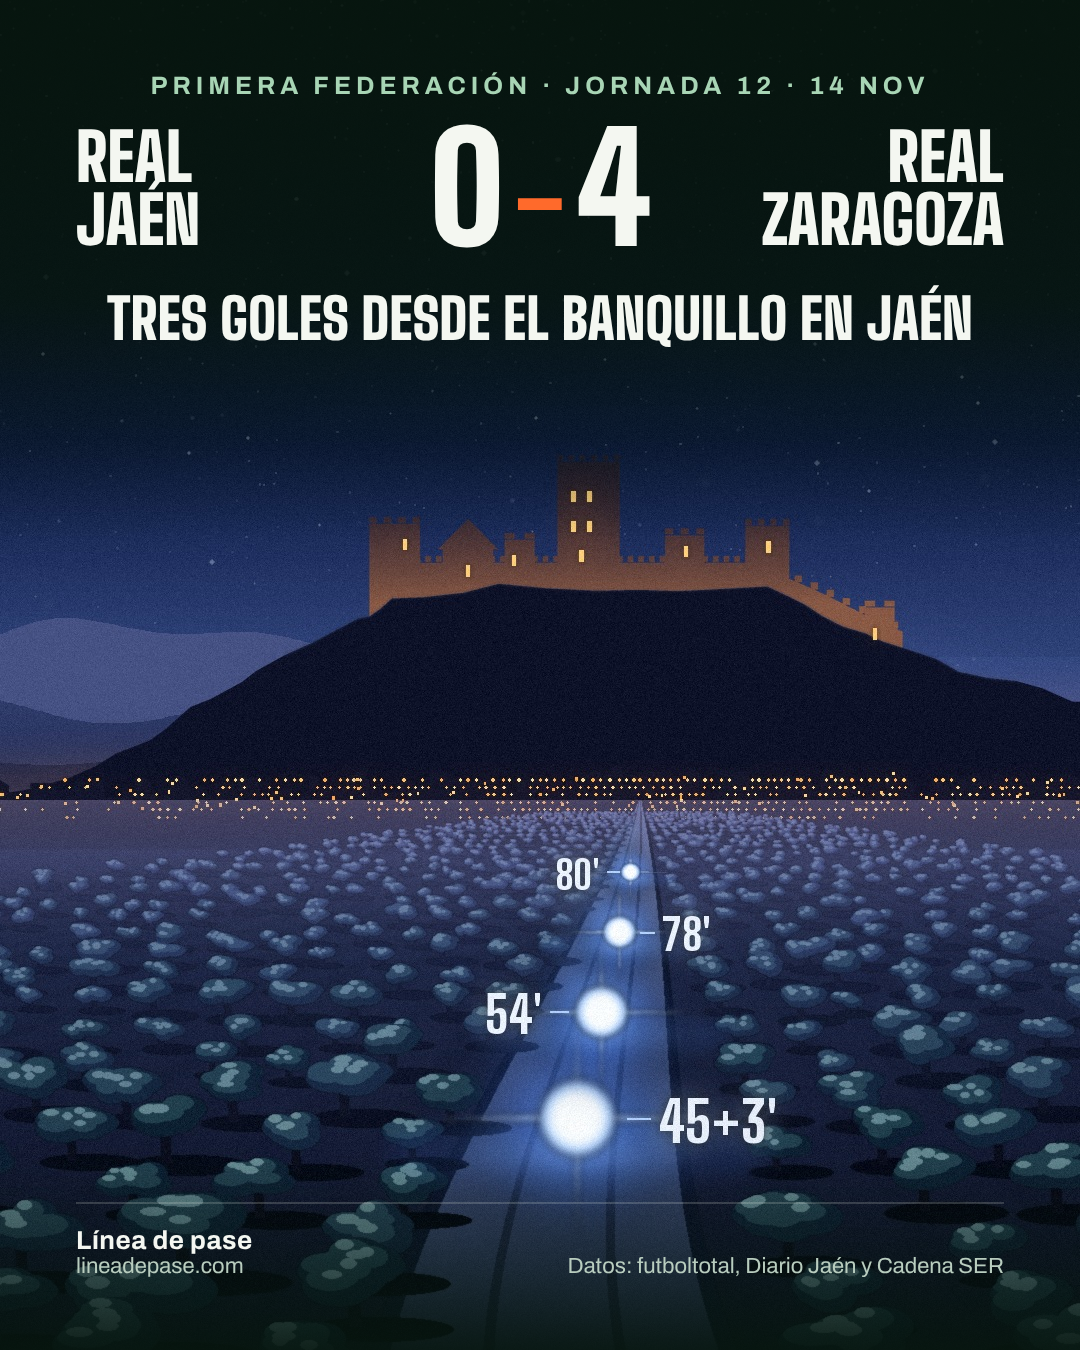
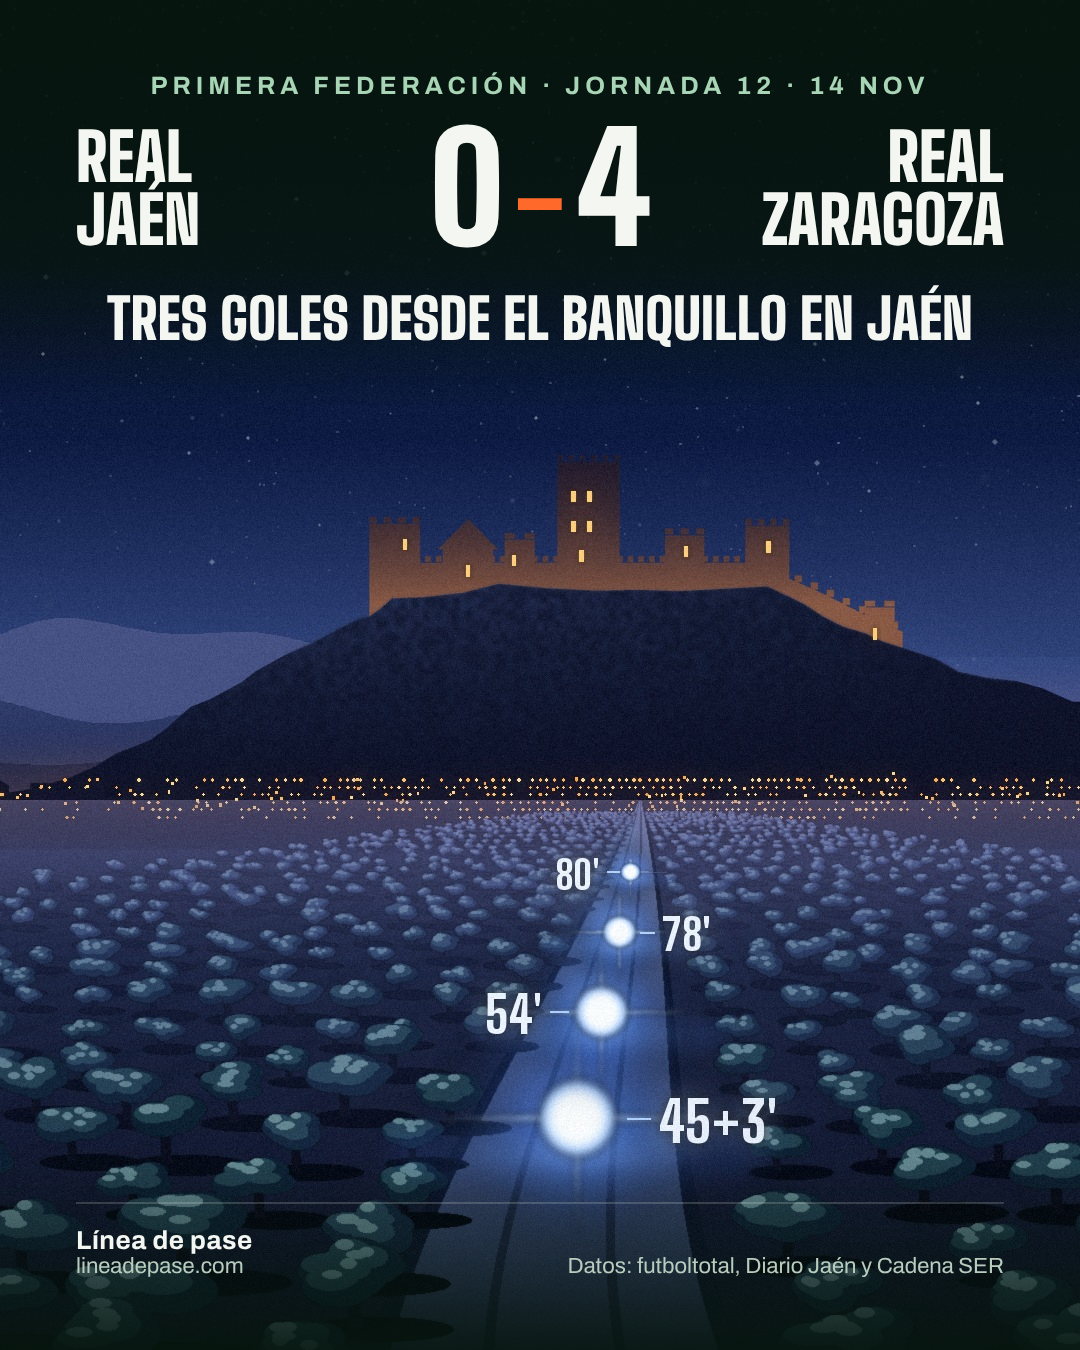
Portada J12 v7: torre del homenaje sin atenuar y luz de luna en la colina
Claude-Session: https://claude.ai/code/session_01B3jP66UQnQVF3rt9jcSQcW

diff --git a/analisis/real-zaragoza/codigo/j12_olivar.py b/analisis/real-zaragoza/codigo/j12_olivar.py
@@ -247,6 +247,19 @@ def castillo(im, c, rnd):
     im = Image.alpha_composite(im, cast)
     im = Image.alpha_composite(im, cal)
     im = Image.alpha_composite(im, roca)
+    # luz de luna en las laderas: más clara arriba y a la izquierda, con algo de textura de roca
+    yy = np.arange(H)[:, None].astype(np.float32)
+    xx = np.arange(W)[None, :].astype(np.float32)
+    cima_y = base_y - 190 * f
+    vert = np.clip(1 - (yy - cima_y) / (base_y - cima_y), 0, 1) ** 1.3
+    horiz = np.clip(1.1 - (xx - (cx - 500 * f)) / (1000 * f), .15, 1)
+    ruido = np.random.default_rng(7).random((H // 6 + 1, W // 6 + 1)).astype(np.float32)
+    ruido = np.asarray(Image.fromarray((ruido * 255).astype(np.uint8)).resize((W, H), Image.BICUBIC)).astype(np.float32) / 255
+    luna = np.zeros((H, W, 4), np.uint8)
+    luna[..., 0], luna[..., 1], luna[..., 2] = 74, 96, 156
+    a_roca = np.asarray(roca.getchannel("A")).astype(np.float32) / 255
+    luna[..., 3] = (a_roca * vert * horiz * (.16 + .26 * ruido) * 255).astype(np.uint8)
+    im = Image.alpha_composite(im, Image.fromarray(luna, "RGBA"))
     im = Image.alpha_composite(im, filo)
     im = Image.alpha_composite(im, ciudad)
     brillo = luz.filter(ImageFilter.GaussianBlur(2.2))

diff --git a/analisis/real-zaragoza/codigo/resultado_redes.py b/analisis/real-zaragoza/codigo/resultado_redes.py
@@ -264,7 +264,7 @@ body{{background:#0b1d13 url({imagen.as_uri()}) center/cover no-repeat}}
     extra = f"""
 body{{background:#0b1d13 url({imagen.as_uri()}) center/cover no-repeat}}
 .campo{{display:none}}
-.velo{{background:linear-gradient(180deg,rgba(7,22,14,.95) 0%,rgba(7,22,14,.85) 22%,rgba(7,22,14,0) 40%,rgba(7,22,14,0) 86%,rgba(7,22,14,.9) 100%)}}
+.velo{{background:linear-gradient(180deg,rgba(7,22,14,.95) 0%,rgba(7,22,14,.82) 19%,rgba(7,22,14,0) 30%,rgba(7,22,14,0) 86%,rgba(7,22,14,.9) 100%)}}
 .marcador{{display:flex;align-items:center;justify-content:space-between;gap:24px;margin-top:26px}}
 .equipo{{font-family:Big;font-weight:900;font-size:66px;text-transform:uppercase;line-height:.95;width:330px}}
 .equipo.der{{text-align:right}}
